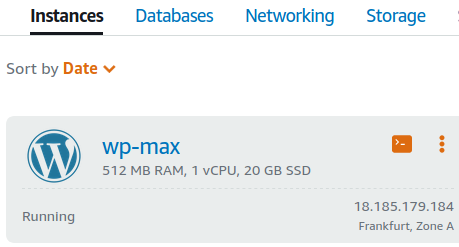
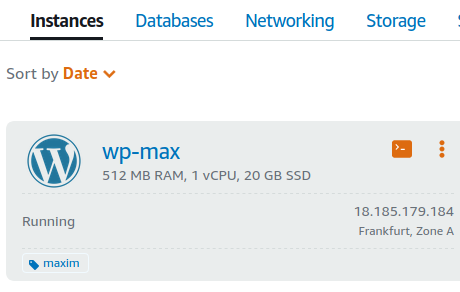
wp launched

diff --git a/m2/task2.3/readme.md b/m2/task2.3/readme.md
@@ -6,8 +6,9 @@ https://docs.aws.amazon.com/en_us/awsaccountbilling/latest/aboutv2/billing-free-
 :white_check_mark: **2. Review the 10-minute example Launch a Linux Virtual Machine.**  
 Repeat, create my own VM in the AWS cloud and connect to it (use `t2.micro` and _CentOS_).  
 https://aws.amazon.com/getting-started/tutorials/launch-a-virtual-machine/?trk=gs_card  
-2.1. Create Lightsail account.  
-2.2. Create Lightsail instance.  
+**2.1.** Create Lightsail account.  
+**2.2.** Create Lightsail instance.  
+**2.3.** Configure my Amazon Lightsail instance.  
 2.3.a. Instance location - **Frankfurt, Zone A (eu-central-1a)**  
 2.3.b. Linux/Unix, OS only.  
 2.3.c. OS - CentOS.  
@@ -16,15 +17,15 @@ https://aws.amazon.com/getting-started/tutorials/launch-a-virtual-machine/?trk=g
 2.3.i. Add key-only tag - `maxim`  
 2.3.j. Creating.  
 ![Sshot 1](https://github.com/nigth/DevOps_online_Kyiv_2020Q3Q4/blob/master/m2/task2.3/shots/1_create_light_inst.png "Sshot 1")  
-2.4. Connect to the instance.  
+**2.4.** Connect to the instance.  
 2.4.a. Instances - SSH through WEB browser:
 ![Sshot 2](https://github.com/nigth/DevOps_online_Kyiv_2020Q3Q4/blob/master/m2/task2.3/shots/2_lightsail_ssh.png "Sshot 2")  
-2.5. Stop the instance.  
+**2.5.** Stop the instance.  
 
 :white_check_mark: **3. Review the 10-minute example Store and Retrieve a File. Repeat, create my own repository.**  
 https://aws.amazon.com/getting-started/tutorials/backup-files-to-amazon-s3/?trk=gs_card  
-3.1. AWS console S3 service login.  
-3.2. Create S3 bucket.  
+**3.1.** AWS console S3 service login.  
+**3.2.** Create S3 bucket.  
 3.2.a. Create bucket.  
 3.2.b. Bucket name - `max-bckt`, region - **US East (Ohio)**.  
 3.2.c. No additional options.  
@@ -32,7 +33,7 @@ https://aws.amazon.com/getting-started/tutorials/backup-files-to-amazon-s3/?trk=
 ![Sshot 3](https://github.com/nigth/DevOps_online_Kyiv_2020Q3Q4/blob/master/m2/task2.3/shots/3_create_bucket.png "Sshot 3")  
 3.2.e. Check and create.  
 ![Sshot 4](https://github.com/nigth/DevOps_online_Kyiv_2020Q3Q4/blob/master/m2/task2.3/shots/4_manage_buckets.png "Sshot 4")  
-3.3. Send a file.  
+**3.3.** Send a file.  
 3.3.a. Open a bucket.  
 3.3.b. Press the "Upload" button.  
 3.3.c. Select and add the files (my screenshots).  
@@ -41,26 +42,34 @@ https://aws.amazon.com/getting-started/tutorials/backup-files-to-amazon-s3/?trk=
 ![Sshot 5](https://github.com/nigth/DevOps_online_Kyiv_2020Q3Q4/blob/master/m2/task2.3/shots/5_upload_files.png "Sshot 5")  
 3.3.f. Check and send.  
 ![Sshot 6](https://github.com/nigth/DevOps_online_Kyiv_2020Q3Q4/blob/master/m2/task2.3/shots/6_files_list.png "Sshot 6")  
-3.4. Extract an object.  
+**3.4.** Extract an object.  
 3.4.a. Mark a file and press the "Download" button.  
-3.5. Remove an object and a bucket.  
+**3.5.** Remove an object and a bucket.  
 3.5.a. Mark a file, select the "Actions-Delete" menu.  
 3.5.b. Check and confirm delete.  
 3.5.c. Go to the Amazon S3 to view all buckets.  
 3.5.d. Mark a bucket and press the "Delete" button, type its name to confirm.  
 
-:black_square_button: **4. Review the 10-minute example. Repeat the steps, create my own site.**  
+:white_check_mark: **4. Review the 10-minute example. Repeat the steps, create my own site.**  
 https://aws.amazon.com/ru/getting-started/tutorials/launch-a-wordpress-website/  
-4.1. Create an Amazon Lightsail Account.  
-4.2. Create a WordPress instance in Lightsail.  
+**4.1.** Create an Amazon Lightsail Account.  
+**4.2.** Create a WordPress instance in Lightsail.  
 4.2.a. Sign into the Lightsail console.  
 4.2.b. On the Instances tab of the Lightsail home page, choose Create instance.  
-4.2.c. Choose the AWS Region and Availability Zone for your instance - **Frankfurt, Zone A (eu-central-1a)**.  
-4.2.d. Choose instance image Linux/Unix, WordPress. 
-4.2.e. Choose an instance plan 3,50 USD (512MB RAM, 1 vCPU, 20GB SSD, transfer 1TB), first month free.   
+4.2.c. Choose the AWS Region and Av Zone for your instance - **Frankfurt, Zone A (eu-central-1a)**.  
+4.2.d. Choose instance image Linux/Unix, WordPress.  
+4.2.e. Choose a plan 3,50 USD (512MB RAM, 1 vCPU, 20GB SSD, transfer 1TB), first month free.   
 4.2.f. Enter a name for instance - **`wp-max`**  
 4.2.g. Choose Create instance.  
 ![Sshot 7](https://github.com/nigth/DevOps_online_Kyiv_2020Q3Q4/blob/master/m2/task2.3/shots/7_wordpress_lightsail.png "Sshot 7")  
+**4.3.** Connect to WP instance via SSH and get the password for WordPress website.  
+4.3.a.Choose the SSH quick-connect icon for my WordPress instance.  
+4.3.b. `cat $HOME/bitnami_application_password`  
+4.3.c. Make note of the password displayed on the screen.  
+**4.4. Sign in to the administration dashboard of my WordPress website**
+4.4.a. `http://My-WP-IpAddress/wp-login.php`  
+4.4.b. Log into my instance.  
+![Sshot 8](https://github.com/nigth/DevOps_online_Kyiv_2020Q3Q4/blob/master/m2/task2.3/shots/8_wp_dashboard.png "Sshot 8")  
 
 :black_square_button: **5. Review the 10-minute example. Create my own domain and domain name for my site.**  
 https://aws.amazon.com/getting-started/hands-on/get-a-domain/?nc1=h_ls  
